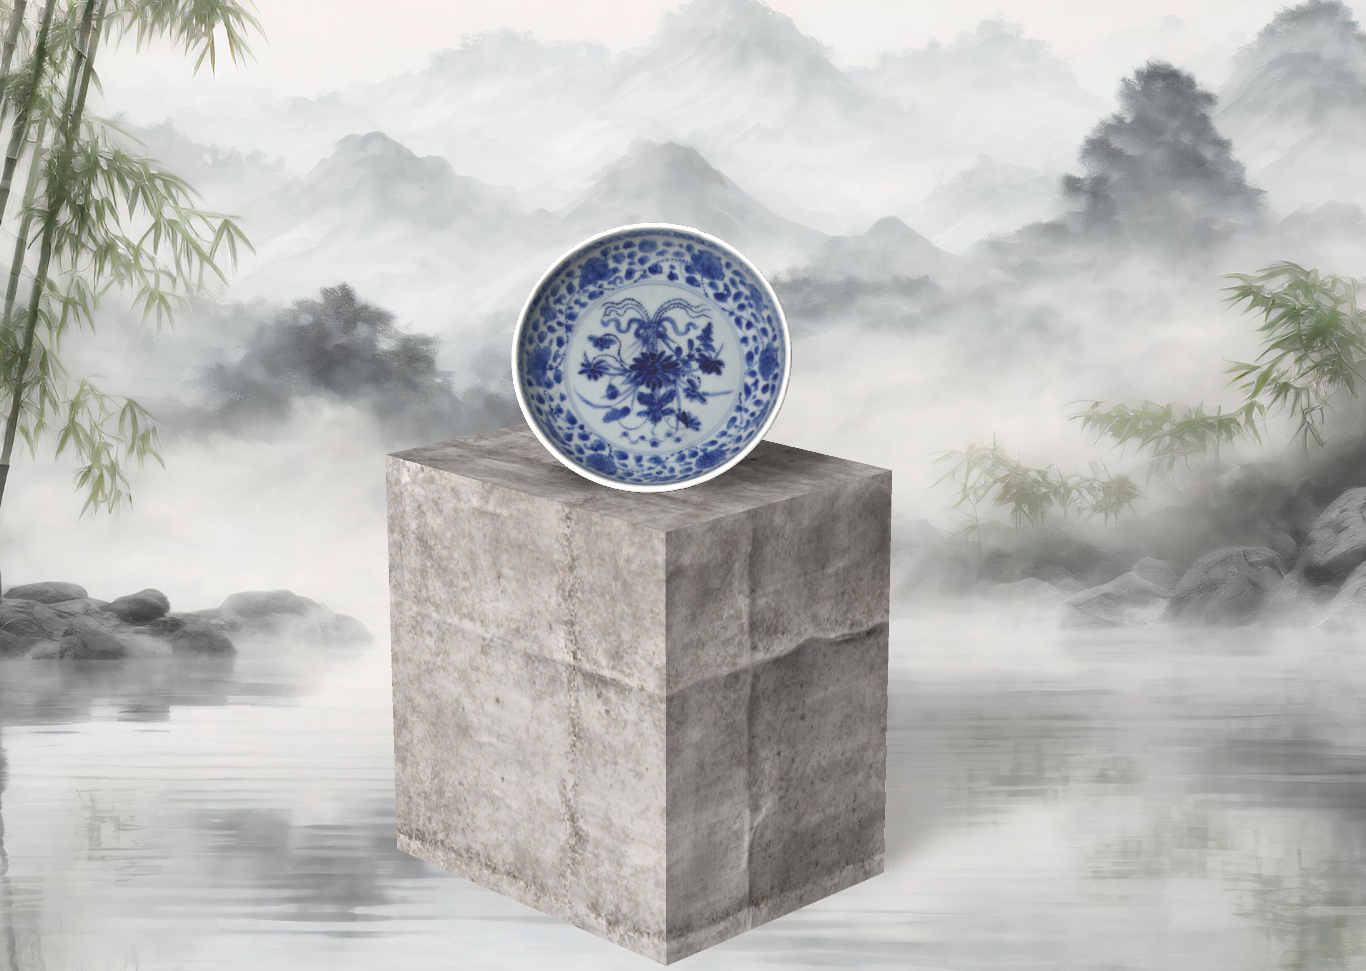
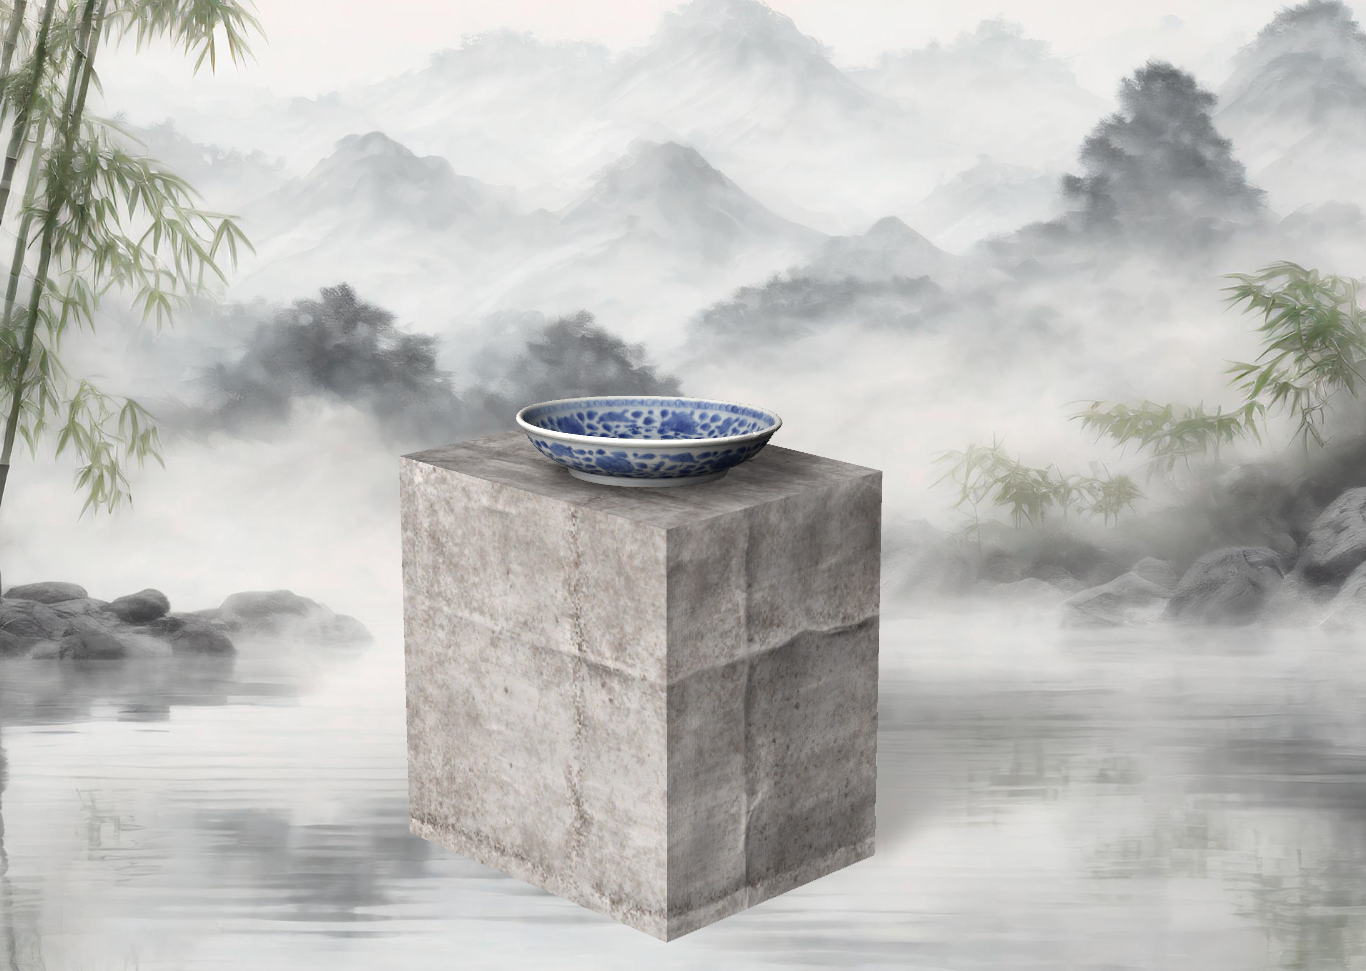
更新: - 修复 vase1 3D模型的加载图标问题 - 调整 hero image 文字位置到 bottom 3% - 更新网站图片内容 - 优化页面布局

Changed region(s): [[0.2767, 0.2163, 0.7072, 1.0], [0.5842, 0.4634, 0.6457, 0.4943]]

diff --git a/styles.css b/styles.css
@@ -338,7 +338,7 @@ model-viewer {
 /* Hero Image 文字样式 */
 .hero-text {
   position: absolute;
-  bottom: 5%; /* 降低文字位置 */
+  bottom: 3%; /* 降低文字位置 */
   left: 0;
   right: 0;
   text-align: center;

diff --git a/index.html b/index.html
@@ -178,7 +178,7 @@
           </p>
         </div>
 
-        <div class="model-viewer-container loading">
+        <div>
           <model-viewer
             src="/porcelain-symbols/glb/vase1.glb"
             ar
